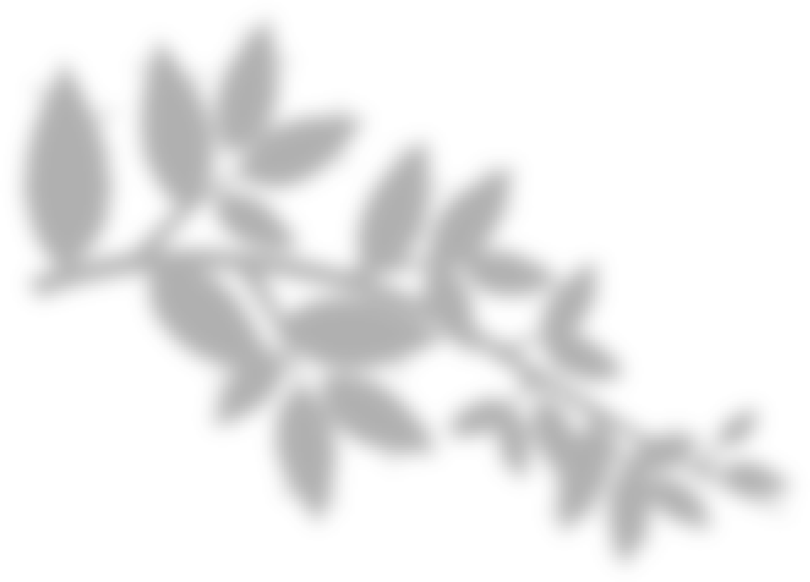
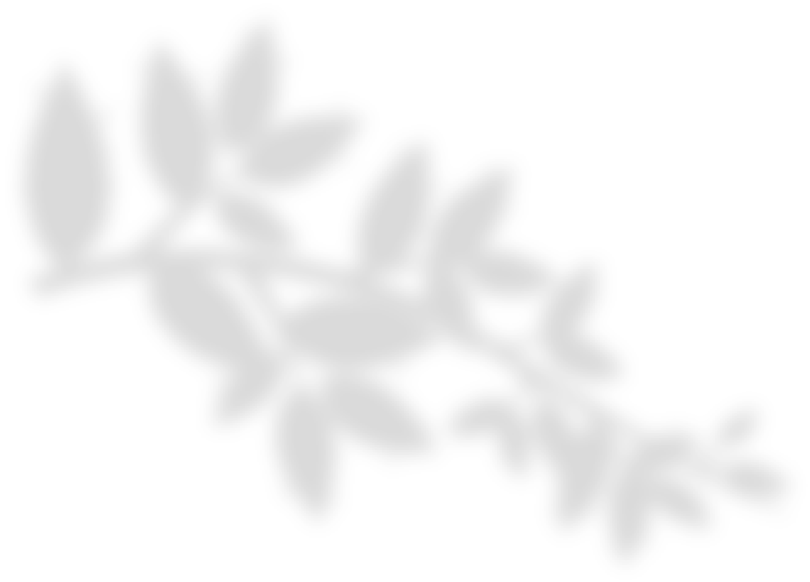
modified bg-2.png 48% opacity, create group 3 & 4 (done)

Changed region(s): [[0.0309, 0.0619, 0.8642, 0.9588], [0.8951, 0.8041, 0.9568, 0.866], [0.8951, 0.7113, 0.9259, 0.7732]]

diff --git a/index.html b/index.html
@@ -143,15 +143,14 @@
               </div>
             </div>
           </div>
-          <button type="button" class="btn btn-light rounded-pill">
-            show more
-          </button>
         </div>
+        <button type="button" class="btn btn-light rounded-pill">
+          show more
+        </button>
       </div>
     </div>
-    <div class="bg-group2"></div>
 
-    <!-- Group 3 -->
+    <!-- Group 3 & 4-->
     <div class="group3">
       <div class="row">
         <div class="col">
@@ -164,9 +163,11 @@
             <h3>discount up to</h3>
             <h3>50% all excursions</h3>
             <p>
-              Lorem ipsum dolor sit amet consectetur adipisicing elit. Corrupti
-              neque ad vel! Rerum odio dolore culpa obcaecati perferendis
-              inventore itaque.
+              Lorem ipsum dolor sit amet consectetur adipisicing elit. Soluta
+              inventore tempore atque pariatur saepe odio excepturi expedita
+              quaerat non perspiciatis deserunt illum mollitia in voluptas vel
+              aliquam, eligendi ex cum voluptate, omnis voluptatem praesentium.
+              Adipisci omnis fuga praesentium ullam veritatis.
             </p>
             <button type="button" class="btn rounded-pill">read more</button>
           </div>
@@ -178,8 +179,11 @@
             <h3>january's promo:</h3>
             <h3>buy 1 get 1 free!</h3>
             <p>
-              Lorem ipsum dolor, sit amet consectetur adipisicing elit. Maiores
-              nobis voluptas non id ipsa. Ad non porro fugit? Sed, ipsum.
+              Lorem ipsum dolor, sit amet consectetur adipisicing elit. Dolorem
+              laboriosam unde esse tenetur harum! Repellendus sed saepe nemo!
+              Consequuntur delectus in mollitia eos praesentium dolorem ab
+              expedita alias harum exercitationem, maiores quod iusto
+              consequatur necessitatibus suscipit ex odit, esse veritatis.
             </p>
             <button type="button" class="btn rounded-pill">read more</button>
           </div>

diff --git a/style/style.css b/style/style.css
@@ -126,6 +126,7 @@ nav {
 .group2 .container {
     margin-top: -25vh;
     text-align: center;
+    padding-bottom: 20vh;
 }
 
 .group2 .container h2 {
@@ -171,7 +172,7 @@ nav {
     font-weight: 300;
 }
 
-.group2 .container .pic button {
+.group2 .container button {
     margin: 3vh auto;
     color: white;
     text-transform: uppercase;
@@ -182,27 +183,74 @@ nav {
     background-color: #7f7770;
 }
 
-.bg-group2 {
+.group2 {
     background-image: url(../img/bg-2.png);
-    background-position: bottom -1vh left -25vw;
-    background-attachment: scroll;
+    background-position: bottom -5vh left -30vw;
+    background-attachment: fixed;
     background-repeat: no-repeat;
-    opacity: 47%;
-    margin-top: -88vh;
-    margin-bottom: 6vh;
-    min-height: 100vh;
+    min-height: 50vh;
 }
 
-/* Group 3 */
+/* Group 3 & 4*/
 .group3 {
     margin: auto;
+    overflow: hidden;
 }
 
-.group3 .row .col .image {
-    width: 25vw;
+.group3 .row .col {
+    padding: 0;
 }
 
+.group3 .row .col .image img {
+    width: 100%;
+    height: 100%;
+}
 
+.group3 .row .col .discount {
+    background-color: #7f7770;
+    color: white;
+    padding: 28vh 5vw;
+    height: 100%;
+}
+
+.group3 .row .col .discount h3 {
+    font-size: 2em;
+    font-weight: 700;
+    text-transform: uppercase;
+}
+
+.group3 .row .col .discount p {
+    font-weight: 400;
+    margin-top: 4vh;
+}
+
+.group3 .row .col button {
+    font-weight: 700;
+    background-color: #e2a355;
+    color: white;
+    width: 180px;
+    letter-spacing: .1rem;
+    text-transform: uppercase;
+    margin-top: 4vh;
+}
+
+.group3 .row .col .promo {
+    background-color: #deb37e;
+    color: white;
+    padding: 28vh 8vw 2vh 11vw;
+    height: 100%;
+}
+
+.group3 .row .col .promo h3 {
+    font-size: 2em;
+    font-weight: 700;
+    text-transform: uppercase;
+}
+
+.group3 .row .col .promo p {
+    font-weight: 400;
+    margin-top: 4vh;
+}
 
 
 
